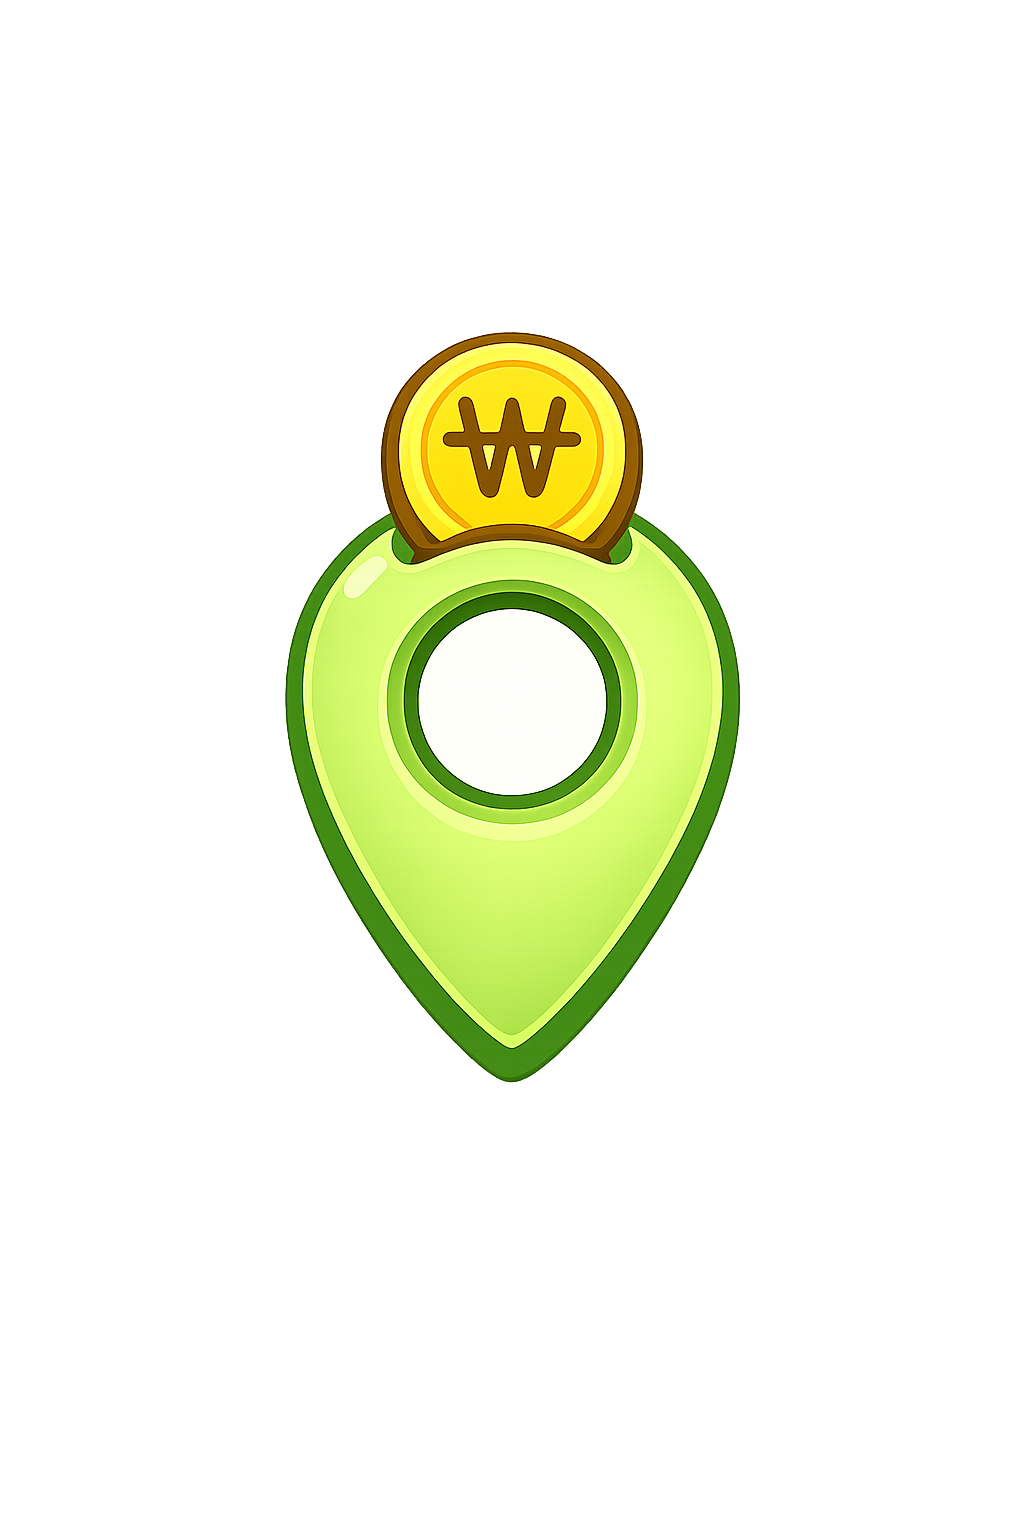
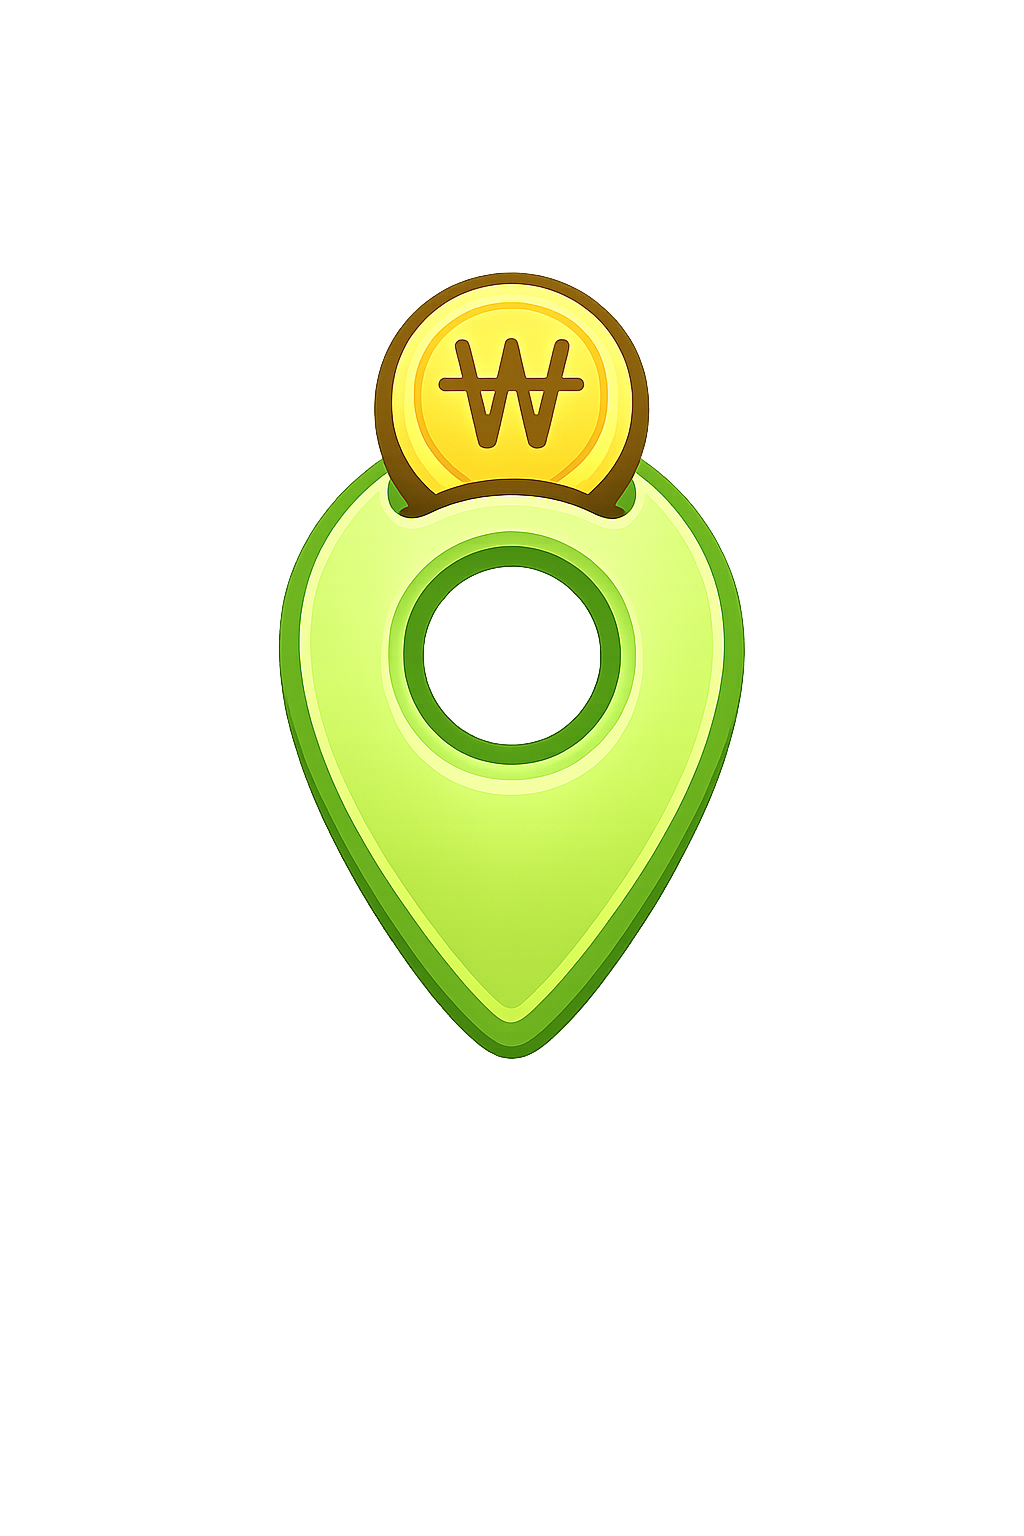
💄 style: 홈 화면 헤더/오늘 지출액 카드 디자인 개선
- 프로필 아이콘 확대, 인사말 밑에 소제목 문구 추가
- 오늘 지출액 카드를 헤더처럼 스크롤 밖에 고정하고 초록/흰 배경 경계에 걸치도록 재배치
- 카드 스타일을 그림자 대신 테두리 선으로 변경(다른 홈 카드들과 통일)

Changed region(s): [[0.25, 0.1562, 0.75, 0.7188]]

diff --git a/frontend/src/screens/HomeScreen.tsx b/frontend/src/screens/HomeScreen.tsx
@@ -23,8 +23,9 @@ const LAST_SHOWN_WEEK_STORAGE_KEY = 'report:lastShownWeek';
 const NICKNAME = 'Dust';
 
 /**
- * 홈 탭 화면입니다. 상단(인사말+알림)과 오늘 지출액 카드는 초록 배경 안에, 그 아래 두 카드
- * (내 주변 7일간 지출, 카테고리별 지출)는 흰 배경 안에 둬서 두 영역을 시각적으로 구분합니다.
+ * 홈 탭 화면입니다. 상단(인사말+알림)은 초록 배경, 그 아래 카드들(내 주변 7일간 지출, 카테고리별
+ * 지출)은 흰 배경 안에 둬서 두 영역을 시각적으로 구분합니다. 오늘 지출액 카드는 두 배경 경계에
+ * 걸치도록 음수 marginTop으로 끌어올려 배치합니다.
  * 데이터는 전부 mocks/home.ts에서 가져오며, 그중 "오늘 지출액"은 API가 아직 없어 임시 값입니다.
  * 알림 뱃지 개수는 store/notificationStore.ts의 안 읽은 알림 수를 그대로 씁니다.
  */
@@ -77,7 +78,10 @@ export default function HomeScreen() {
       <View style={styles.header}>
         <View style={styles.profileRow}>
           <Image source={require('@/assets/images/profile-icon.png')} style={styles.profileIcon} />
-          <Text style={styles.greeting}>안녕하세요, {NICKNAME}님</Text>
+          <View>
+            <Text style={styles.greeting}>안녕하세요, {NICKNAME}님</Text>
+            <Text style={styles.greetingSubtitle}>오늘도 함께 알뜰하게!</Text>
+          </View>
         </View>
 
         <View>
@@ -95,12 +99,15 @@ export default function HomeScreen() {
         </View>
       </View>
 
-      <ScrollView contentContainerStyle={styles.scrollContent} showsVerticalScrollIndicator={false}>
-        <View style={styles.topContent}>
+      {/* 흰 배경이 시작되는 이 영역도 헤더처럼 스크롤 밖에 고정해서, 카드가 ScrollView 경계에
+          잘리지 않고 초록/흰 배경 경계에 걸친 모습 그대로 항상 보이게 한다. */}
+      <View style={styles.todayCardSection}>
+        <View style={styles.todayCardWrapper}>
           <TodaySpendingCard amount={MOCK_TODAY_EXPENSE} />
         </View>
+      </View>
 
-        {/* 오늘 지출액 카드까지만 초록 배경이고, 그 아래부터는 흰 배경으로 이어진다. */}
+      <ScrollView contentContainerStyle={styles.scrollContent} showsVerticalScrollIndicator={false}>
         <View style={styles.body}>
           <NearbyWeekSpendingCard places={nearbyExpenses.placeList} totalAmount={nearbyExpenses.totalAmount} />
           <CategorySummaryCard categories={categories} onPressMore={() => router.push('/list?tab=analysis')} />
@@ -162,7 +169,8 @@ const styles = StyleSheet.create({
     alignItems: 'center',
     justifyContent: 'space-between',
     paddingHorizontal: 20,
-    paddingBottom: 16,
+    // 카드가 이 아래에서 위로 걸쳐 올라오므로, 커진 프로필 아이콘과 겹치지 않을 만큼 여백을 둔다.
+    paddingBottom: 40,
   },
   profileRow: {
     flexDirection: 'row',
@@ -170,14 +178,20 @@ const styles = StyleSheet.create({
     gap: 2,
   },
   profileIcon: {
-    width: 44,
-    height: 44,
+    width: 56,
+    height: 56,
     resizeMode: 'contain',
   },
   greeting: {
     color: '#FFFFFF',
     fontSize: 17,
     fontWeight: '700',
+  },
+  greetingSubtitle: {
+    marginTop: 2,
+    color: Colors.onboarding.lightText,
+    fontSize: 12,
+    fontWeight: '500',
   },
   badge: {
     position: 'absolute',
@@ -199,16 +213,23 @@ const styles = StyleSheet.create({
   scrollContent: {
     flexGrow: 1,
   },
-  topContent: {
+  // 흰 배경이 시작되는 지점. 헤더와 마찬가지로 스크롤 밖에 고정되어 있어 카드가 잘리지 않는다.
+  todayCardSection: {
+    backgroundColor: Colors.light.background,
+    borderTopLeftRadius: 24,
+    borderTopRightRadius: 24,
     paddingHorizontal: 16,
-    paddingBottom: 20,
+    paddingBottom: 16,
+  },
+  todayCardWrapper: {
+    // 카드 윗부분이 초록 헤더 위로 올라가 걸치도록 이 섹션의 시작 지점보다 위로 끌어올린다.
+    marginTop: -32,
   },
   body: {
     flexGrow: 1,
     backgroundColor: Colors.light.background,
-    borderTopLeftRadius: 24,
-    borderTopRightRadius: 24,
     padding: 16,
+    paddingTop: 0,
     gap: 24,
   },
 });

diff --git a/frontend/components/home/TodaySpendingCard.tsx b/frontend/components/home/TodaySpendingCard.tsx
@@ -19,27 +19,28 @@ export function TodaySpendingCard({ amount }: TodaySpendingCardProps) {
 
 const styles = StyleSheet.create({
   card: {
-    padding: 20,
-    borderRadius: 20,
-    // 화면 배경(SafeArea)이 이제 이 카드랑 같은 초록색이라, 반투명 흰색을 덮어서
-    // 배경보다 살짝 밝게 떠 보이게 하는 걸로 카드 경계를 구분한다.
-    backgroundColor: 'rgba(255, 255, 255, 0.16)',
+    paddingVertical: 16,
+    paddingHorizontal: 18,
+    borderRadius: 18,
+    // 이 카드는 초록 헤더와 흰 배경 경계에 걸치도록 배치되므로, 배경에 따라 색이 달라 보이지
+    // 않게 불투명한 흰 배경으로 둔다.
+    backgroundColor: Colors.light.cardBackground,
     borderWidth: 1,
-    borderColor: 'rgba(255, 255, 255, 0.22)',
+    borderColor: Colors.light.border,
   },
   label: {
-    color: Colors.onboarding.lightText,
-    fontSize: 14,
+    color: Colors.light.cardDescription,
+    fontSize: 13,
     fontWeight: '600',
   },
   amount: {
-    marginTop: 8,
-    color: '#FFFFFF',
-    fontSize: 30,
+    marginTop: 6,
+    color: Colors.light.cardTitle,
+    fontSize: 24,
     fontWeight: '800',
   },
   unit: {
-    fontSize: 18,
+    fontSize: 15,
     fontWeight: '700',
   },
 });
